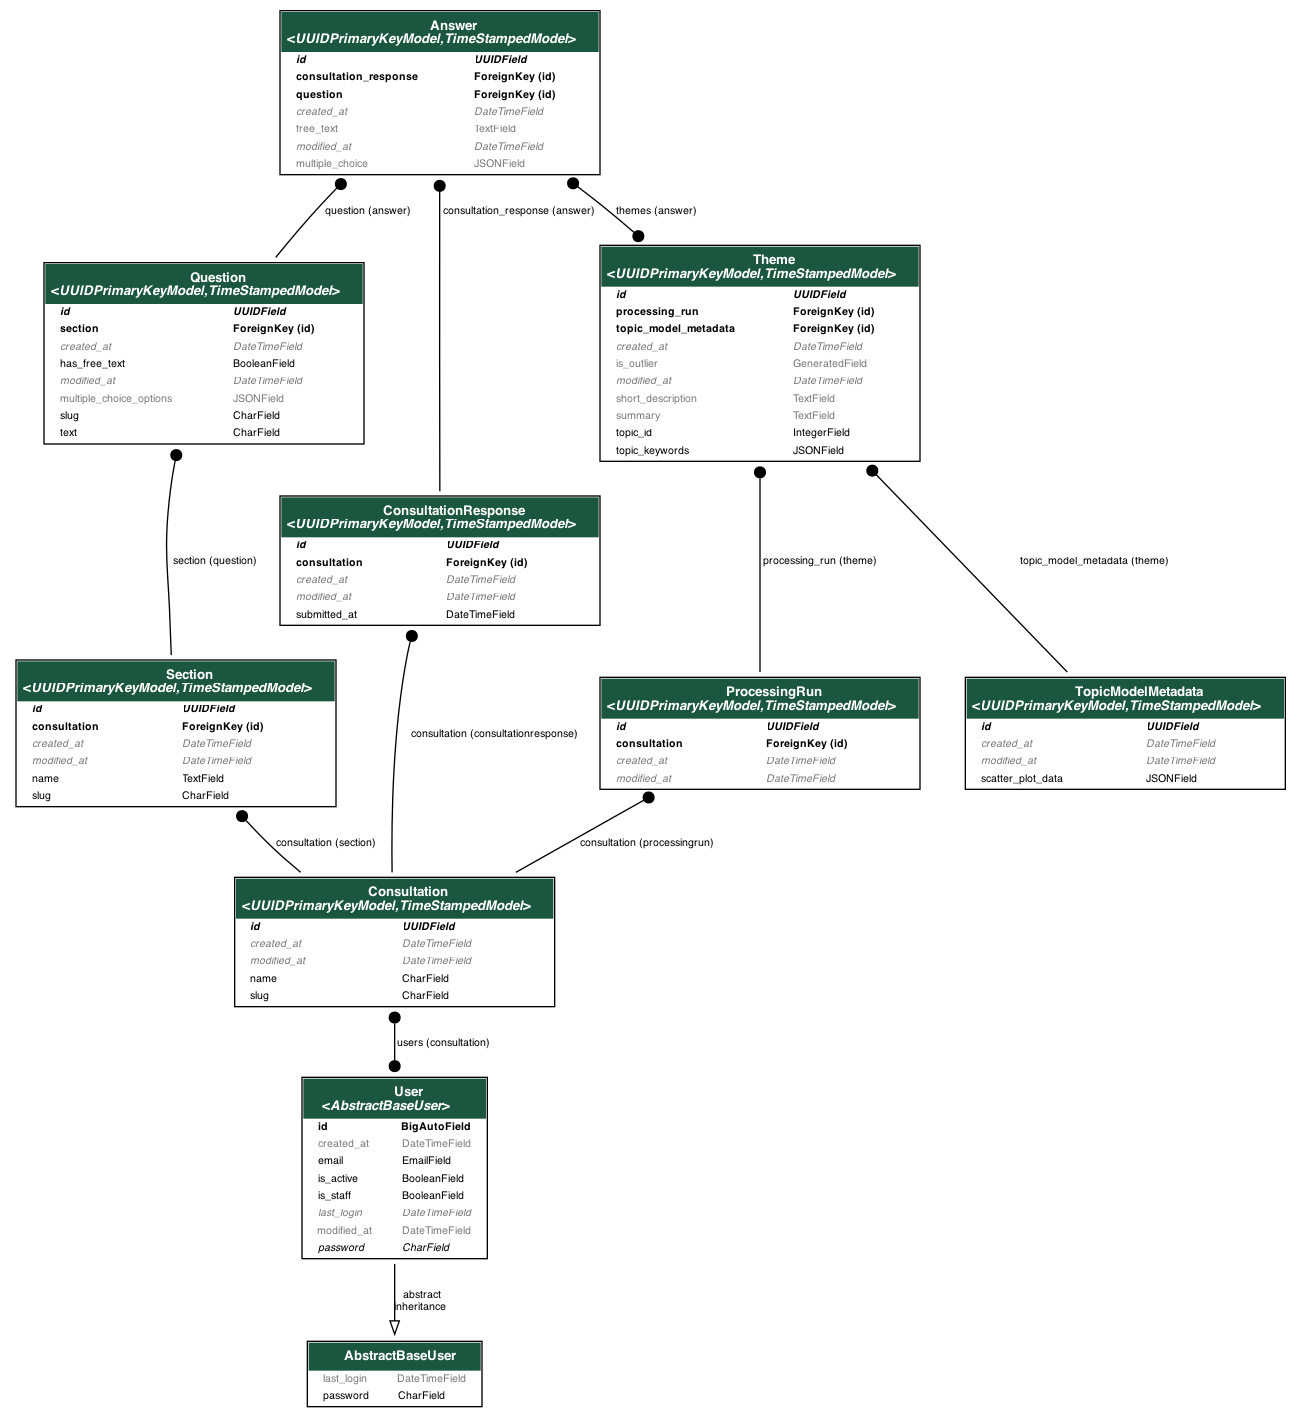
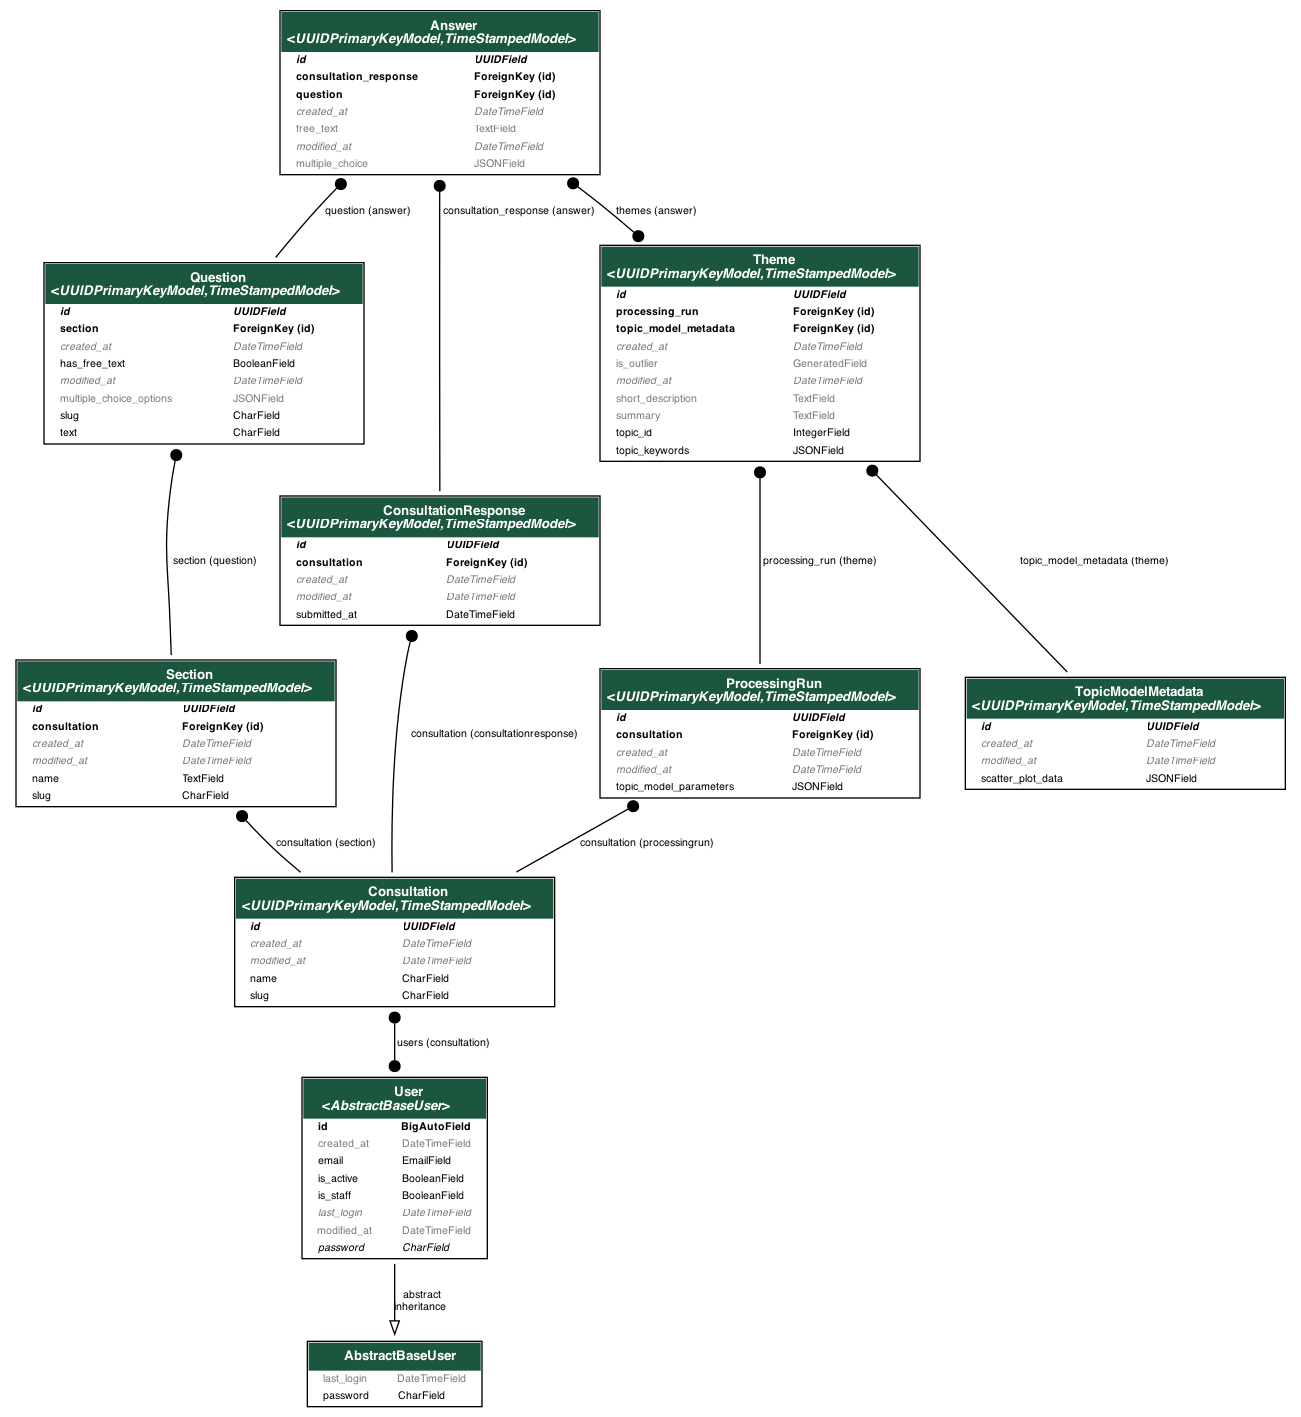
Update end-to-end pipeline for topic model parameter config.

Changed region(s): [[0.4612, 0.4658, 0.7071, 0.59]]

diff --git a/consultation_analyser/pipeline/backends/bertopic.py b/consultation_analyser/pipeline/backends/bertopic.py
@@ -2,7 +2,7 @@ import logging
 import os
 from dataclasses import dataclass
 from pathlib import Path
-from typing import List, Optional
+from typing import Dict, List, Optional
 from uuid import UUID
 
 import numpy as np
@@ -50,7 +50,10 @@ class BERTopicBackend(TopicBackend):
         self.device = device
         self.n_neighbors = 15
 
-    def get_topics(self, question: models.Question) -> list[TopicAssignment]:
+    # TODO - turn topic_model_params into dataclass?
+    def get_topics(
+        self, question: models.Question, topic_model_parameters: Dict
+    ) -> list[TopicAssignment]:
         answers_qs = (
             models.Answer.objects.filter(question=question)
             .exclude(free_text="")
@@ -62,7 +65,9 @@ class BERTopicBackend(TopicBackend):
         answers_list_with_embeddings = self.__get_embeddings_for_question(answers_list)
 
         logger.info("BERTopic topic model generation")
-        self.topic_model = self.__get_topic_model(answers_list_with_embeddings)
+        self.topic_model = self.__get_topic_model(
+            answers_list_with_embeddings,
+        )
 
         answers_topics_df = self.__get_answers_and_topics(
             self.topic_model, answers_list_with_embeddings
@@ -137,12 +142,17 @@ class BERTopicBackend(TopicBackend):
         ]
         return answers_list_with_embeddings
 
-    def __get_topic_model(self, answers_list_with_embeddings: List[AnswerWithEmbeddings]):
+    def __get_topic_model(
+        self, answers_list_with_embeddings: List[AnswerWithEmbeddings], topic_model_parameters: Dict
+    ):
         from bertopic import BERTopic
         from bertopic.vectorizers import ClassTfidfTransformer
         from hdbscan import HDBSCAN
         from sklearn.feature_extraction.text import CountVectorizer
         from umap.umap_ import UMAP
+
+        # TODO - get all the other params out and deal with them
+        nr_topics = topic_model_parameters.get("nr_topics", "auto")
 
         free_text_responses_list = [answer.free_text for answer in answers_list_with_embeddings]
         embeddings_list = [answer.embedding for answer in answers_list_with_embeddings]
@@ -168,6 +178,7 @@ class BERTopicBackend(TopicBackend):
             hdbscan_model=hdbscan_model,
             vectorizer_model=vectorizer_model,
             ctfidf_model=ctfidf_model,
+            nr_topics=nr_topics,
         )
         topic_model.fit_transform(free_text_responses_list, embeddings=embeddings)
         return topic_model

diff --git a/consultation_analyser/pipeline/processing.py b/consultation_analyser/pipeline/processing.py
@@ -89,8 +89,9 @@ def process_consultation_themes(consultation, topic_backend=None, llm_backend=No
 
 def run_processing_pipeline(consultation, topic_model_parameters=None):
     processing_run = ProcessingRun(consultation=consultation)
+    if topic_model_parameters:
+        processing_run.topic_model_parameters = topic_model_parameters
     processing_run.save()
-    # Save topic_model_parameters...
 
     if HostingEnvironment.is_deployed():
         job_name = f"generate-themes-{consultation.slug}"[:128]  # Must be <=128 , no spaces

diff --git a/consultation_analyser/pipeline/backends/dummy_topic_backend.py b/consultation_analyser/pipeline/backends/dummy_topic_backend.py
@@ -1,5 +1,6 @@
 import logging
 import random
+from typing import Dict
 
 from faker import Faker
 
@@ -28,7 +29,9 @@ def random_partition(lst):
 
 
 class DummyTopicBackend(TopicBackend):
-    def get_topics(self, question: models.Question) -> list[TopicAssignment]:
+    def get_topics(
+        self, question: models.Question, topic_model_parameters: Dict
+    ) -> list[TopicAssignment]:
         faker = Faker()
         answers = models.Answer.objects.filter(question=question).order_by("created_at")
 

diff --git a/consultation_analyser/consultations/migrations/0024_processingrun_topic_model_parameters.py b/consultation_analyser/consultations/migrations/0024_processingrun_topic_model_parameters.py
@@ -1,0 +1,17 @@
+# Generated by Django 5.0.7 on 2024-07-11 18:26
+
+from django.db import migrations, models
+
+
+class Migration(migrations.Migration):
+    dependencies = [
+        ("consultations", "0023_topicmodelmetadata_scatter_plot_data"),
+    ]
+
+    operations = [
+        migrations.AddField(
+            model_name="processingrun",
+            name="topic_model_parameters",
+            field=models.JSONField(default=dict),
+        ),
+    ]

diff --git a/consultation_analyser/pipeline/backends/topic_backend.py b/consultation_analyser/pipeline/backends/topic_backend.py
@@ -1,4 +1,5 @@
 from abc import ABC, abstractmethod
+from typing import Dict
 
 from consultation_analyser.consultations import models
 
@@ -7,5 +8,7 @@ from .types import TopicAssignment
 
 class TopicBackend(ABC):
     @abstractmethod
-    def get_topics(self, question: models.Question) -> list[TopicAssignment]:
+    def get_topics(
+        self, question: models.Question, topic_model_parameters: Dict
+    ) -> list[TopicAssignment]:
         pass

diff --git a/consultation_analyser/pipeline/ml_pipeline.py b/consultation_analyser/pipeline/ml_pipeline.py
@@ -31,7 +31,7 @@ def save_themes_for_question(
     processing_run: models.ProcessingRun,
 ) -> None:
     logging.info(f"Get topics for question: {question.text}")
-    assignments = topic_backend.get_topics(question)
+    assignments = topic_backend.get_topics(question, processing_run.topic_model_parameters)
 
     data = get_scatter_plot_data(assignments)
     topic_model_metadata = models.TopicModelMetadata(scatter_plot_data=data)
